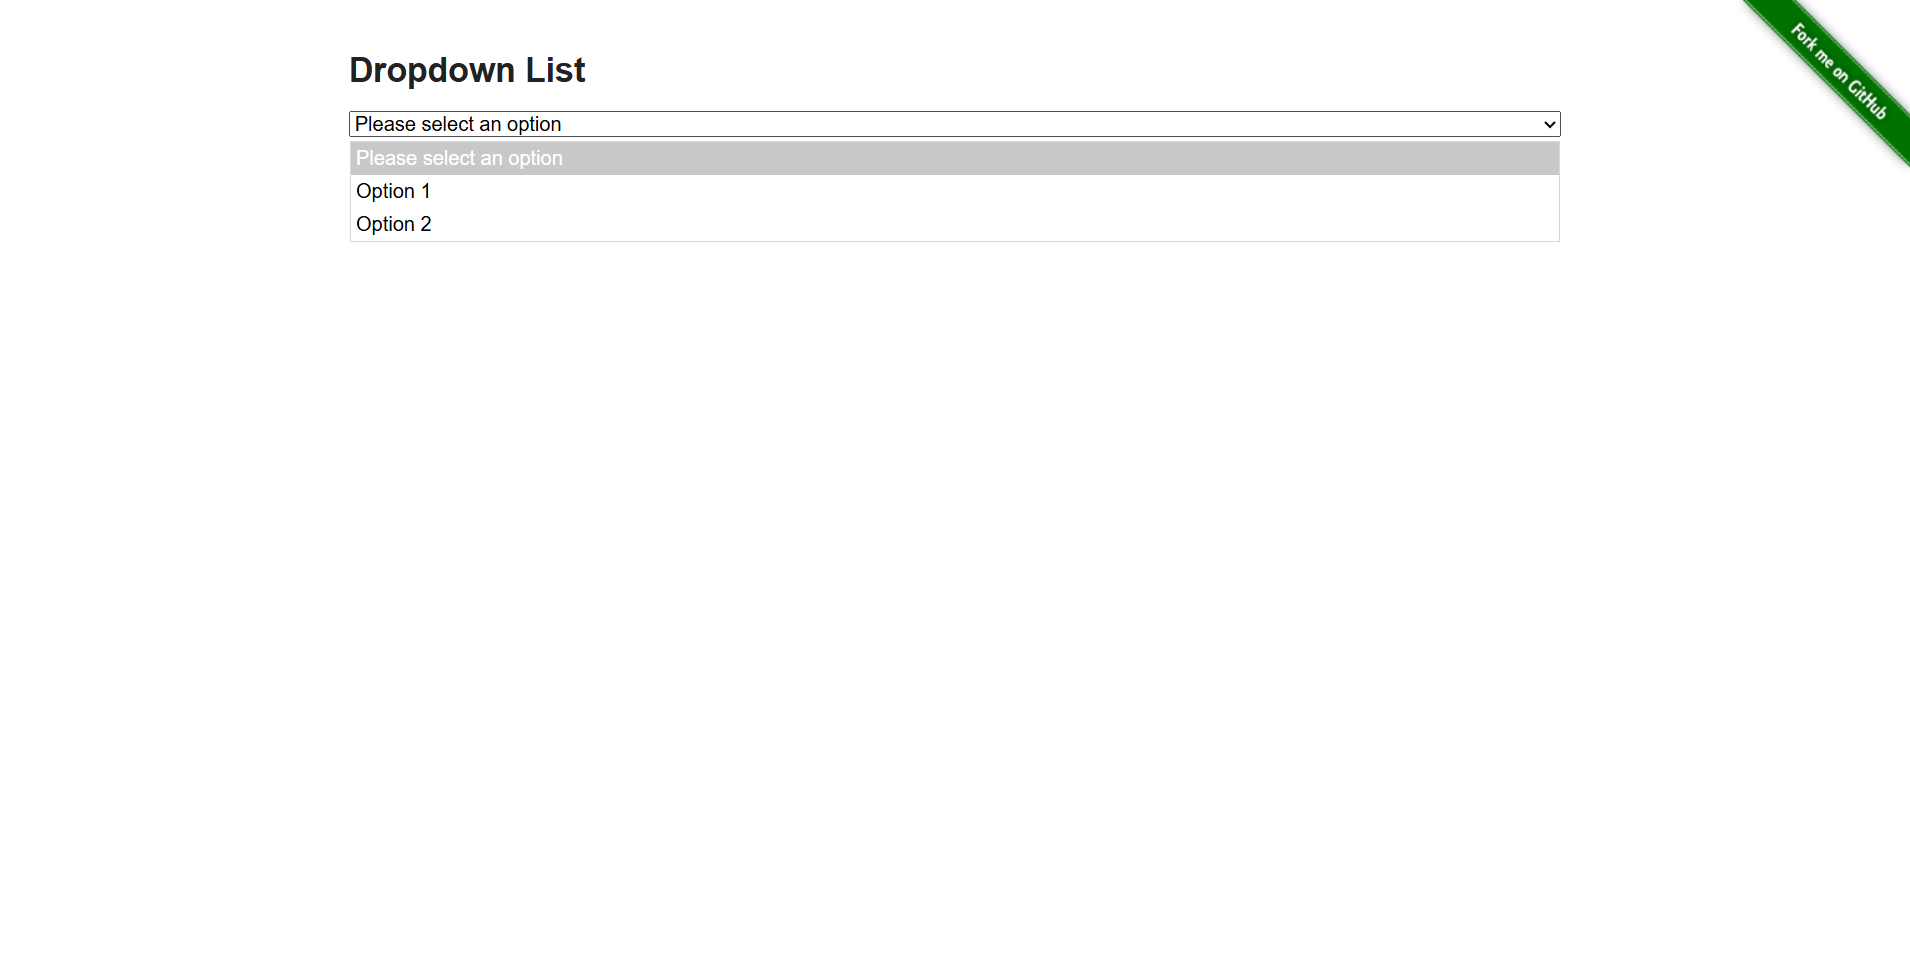
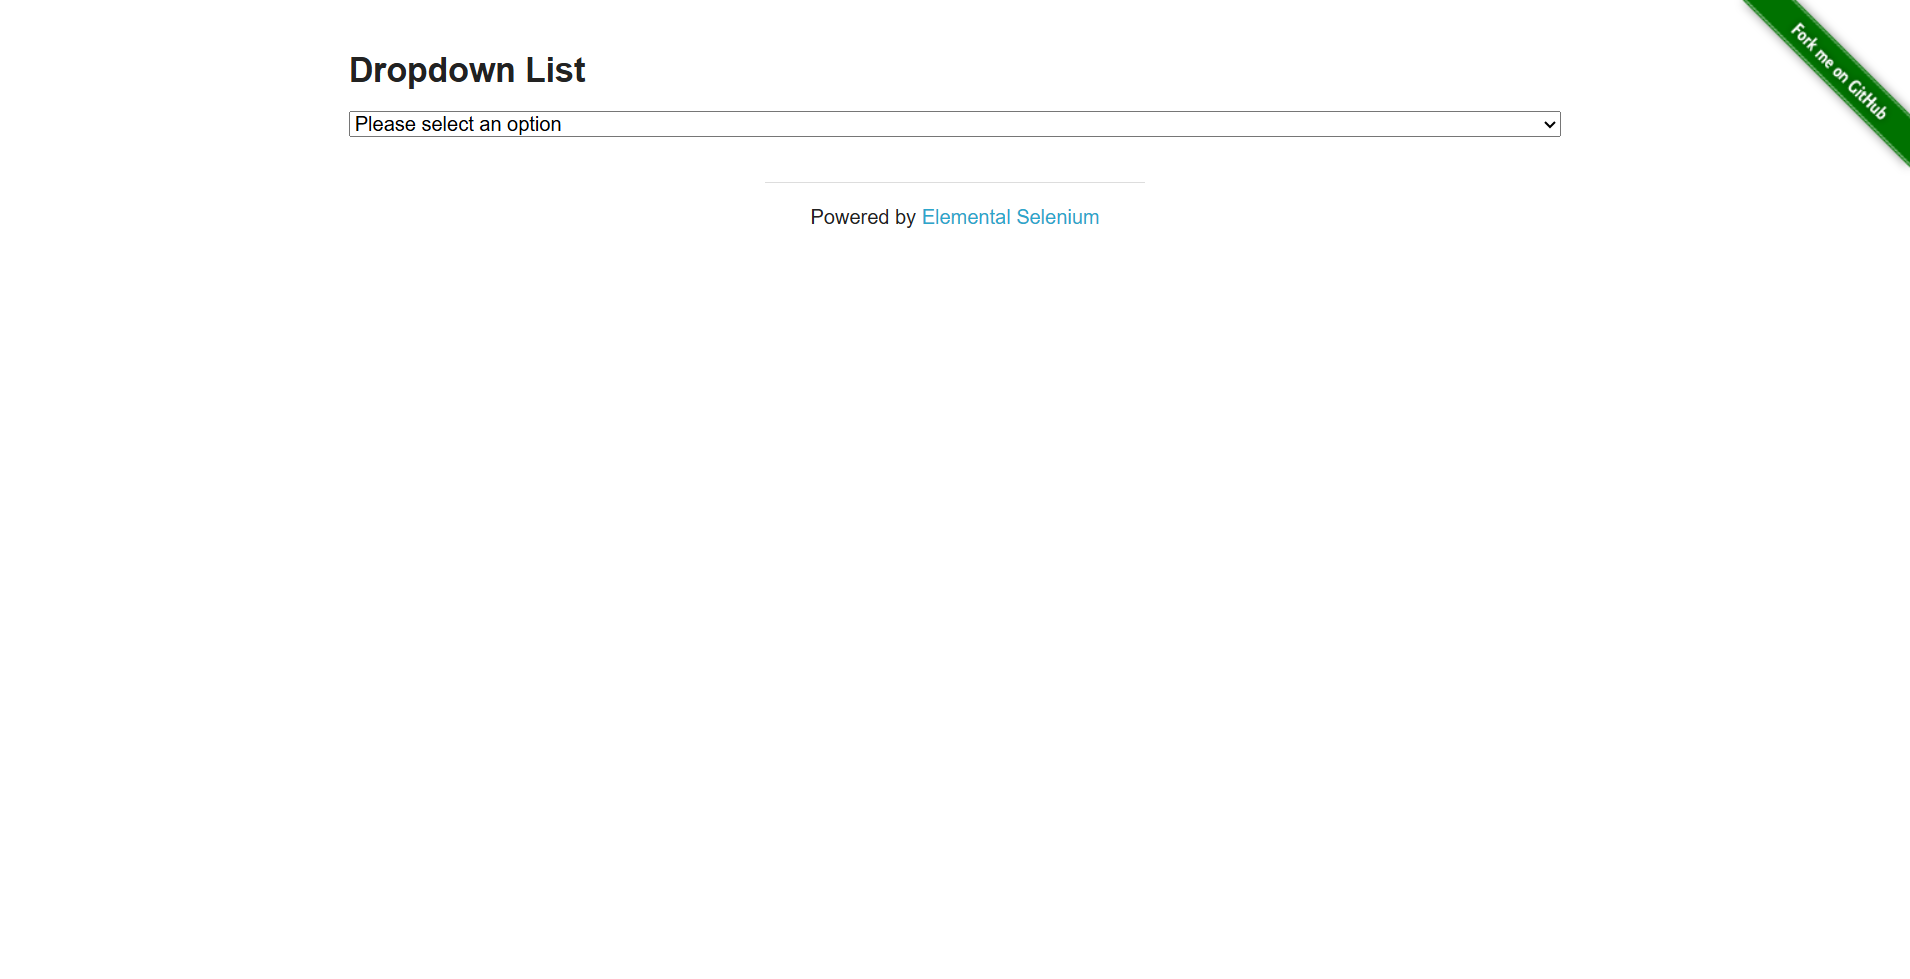
Reports using xml test suite

Changed region(s): [[0.1853, 0.1227, 0.834, 0.2454], [0.4325, 0.2147, 0.5869, 0.2454]]

diff --git a/test-output/Suite/Test.html b/test-output/Suite/Test.html
@@ -1,0 +1,207 @@
+<html>
+<head>
+<title>TestNG:  Test</title>
+<link href="../testng.css" rel="stylesheet" type="text/css" />
+<link href="../my-testng.css" rel="stylesheet" type="text/css" />
+
+<style type="text/css">
+.log { display: none;} 
+.stack-trace { display: none;} 
+</style>
+<script type="text/javascript">
+<!--
+function flip(e) {
+  current = e.style.display;
+  if (current == 'block') {
+    e.style.display = 'none';
+    return 0;
+  }
+  else {
+    e.style.display = 'block';
+    return 1;
+  }
+}
+
+function toggleBox(szDivId, elem, msg1, msg2)
+{
+  var res = -1;  if (document.getElementById) {
+    res = flip(document.getElementById(szDivId));
+  }
+  else if (document.all) {
+    // this is the way old msie versions work
+    res = flip(document.all[szDivId]);
+  }
+  if(elem) {
+    if(res == 0) elem.innerHTML = msg1; else elem.innerHTML = msg2;
+  }
+
+}
+
+function toggleAllBoxes() {
+  if (document.getElementsByTagName) {
+    d = document.getElementsByTagName('div');
+    for (i = 0; i < d.length; i++) {
+      if (d[i].className == 'log') {
+        flip(d[i]);
+      }
+    }
+  }
+}
+
+// -->
+</script>
+
+</head>
+<body>
+<h2 align='center'>Test</h2><table border='1' align="center">
+<tr>
+<td>Tests passed/Failed/Skipped:</td><td>4/2/0</td>
+</tr><tr>
+<td>Started on:</td><td>Sun Apr 19 12:20:49 EDT 2026</td>
+</tr>
+<tr><td>Total time:</td><td>16 seconds (16109 ms)</td>
+</tr><tr>
+<td>Included groups:</td><td></td>
+</tr><tr>
+<td>Excluded groups:</td><td></td>
+</tr>
+</table><p/>
+<small><i>(Hover the method name to see the test class name)</i></small><p/>
+<table width='100%' border='1' class='invocation-failed'>
+<tr><td colspan='4' align='center'><b>FAILED TESTS</b></td></tr>
+<tr><td><b>Test method</b></td>
+<td><b>Attribute(s)</b></td>
+<td width="30%"><b>Exception</b></td>
+<td width="10%"><b>Time (seconds)</b></td>
+<td><b>Instance</b></td>
+</tr>
+<tr>
+<td title='internetheroukapp.DropDownTest.validateDropDownFailTestByVlalue()'><b>validateDropDownFailTestByVlalue</b><br>Test class: internetheroukapp.DropDownTest</td>
+<td><div><pre>org.openqa.selenium.NoSuchElementException: Cannot locate option with index: 3
+For documentation on this error, please visit: https://www.selenium.dev/documentation/webdriver/troubleshooting/errors#nosuchelementexception
+Build info: version: &apos;4.40.0&apos;, revision: &apos;b3333f1&apos;
+System info: os.name: &apos;Windows 11&apos;, os.arch: &apos;amd64&apos;, os.version: &apos;10.0&apos;, java.version: &apos;17.0.3&apos;
+Driver info: driver.version: unknown
+	at org.openqa.selenium.support.ui.Select.setSelectedByIndex(Select.java:321)
+	at org.openqa.selenium.support.ui.Select.selectByIndex(Select.java:176)
+	at util.UserInterfaceActionsUtils.selectDropDownByIndex(UserInterfaceActionsUtils.java:45)
+	at pageclasses.DropDownTitlePage.selectDropDownOptionsByValue(DropDownTitlePage.java:28)
+	at internetheroukapp.DropDownTest.validateDropDownFailTestByVlalue(DropDownTest.java:58)
+	at java.base/java.util.ArrayList.forEach(ArrayList.java:1511)
+... Removed 27 stack frames</pre></div><a href='#' onClick='toggleBox("stack-trace867205829", this, "Click to show all stack frames", "Click to hide stack frames")'>Click to show all stack frames</a>
+<div class='stack-trace' id='stack-trace867205829'><pre>org.openqa.selenium.NoSuchElementException: Cannot locate option with index: 3
+For documentation on this error, please visit: https://www.selenium.dev/documentation/webdriver/troubleshooting/errors#nosuchelementexception
+Build info: version: &apos;4.40.0&apos;, revision: &apos;b3333f1&apos;
+System info: os.name: &apos;Windows 11&apos;, os.arch: &apos;amd64&apos;, os.version: &apos;10.0&apos;, java.version: &apos;17.0.3&apos;
+Driver info: driver.version: unknown
+	at org.openqa.selenium.support.ui.Select.setSelectedByIndex(Select.java:321)
+	at org.openqa.selenium.support.ui.Select.selectByIndex(Select.java:176)
+	at util.UserInterfaceActionsUtils.selectDropDownByIndex(UserInterfaceActionsUtils.java:45)
+	at pageclasses.DropDownTitlePage.selectDropDownOptionsByValue(DropDownTitlePage.java:28)
+	at internetheroukapp.DropDownTest.validateDropDownFailTestByVlalue(DropDownTest.java:58)
+	at java.base/jdk.internal.reflect.NativeMethodAccessorImpl.invoke0(Native Method)
+	at java.base/jdk.internal.reflect.NativeMethodAccessorImpl.invoke(NativeMethodAccessorImpl.java:77)
+	at java.base/jdk.internal.reflect.DelegatingMethodAccessorImpl.invoke(DelegatingMethodAccessorImpl.java:43)
+	at java.base/java.lang.reflect.Method.invoke(Method.java:568)
+	at org.testng.internal.invokers.MethodInvocationHelper.invokeMethod(MethodInvocationHelper.java:141)
+	at org.testng.internal.invokers.TestInvoker.invokeMethod(TestInvoker.java:697)
+	at org.testng.internal.invokers.TestInvoker.invokeTestMethod(TestInvoker.java:230)
+	at org.testng.internal.invokers.MethodRunner.runInSequence(MethodRunner.java:63)
+	at org.testng.internal.invokers.TestInvoker$MethodInvocationAgent.invoke(TestInvoker.java:1005)
+	at org.testng.internal.invokers.TestInvoker.invokeTestMethods(TestInvoker.java:203)
+	at org.testng.internal.invokers.TestMethodWorker.invokeTestMethods(TestMethodWorker.java:154)
+	at org.testng.internal.invokers.TestMethodWorker.run(TestMethodWorker.java:134)
+	at java.base/java.util.ArrayList.forEach(ArrayList.java:1511)
+	at org.testng.TestRunner.privateRun(TestRunner.java:744)
+	at org.testng.TestRunner.run(TestRunner.java:616)
+	at org.testng.SuiteRunner.runTest(SuiteRunner.java:421)
+	at org.testng.SuiteRunner.runSequentially(SuiteRunner.java:413)
+	at org.testng.SuiteRunner.privateRun(SuiteRunner.java:373)
+	at org.testng.SuiteRunner.run(SuiteRunner.java:312)
+	at org.testng.SuiteRunnerWorker.runSuite(SuiteRunnerWorker.java:52)
+	at org.testng.SuiteRunnerWorker.run(SuiteRunnerWorker.java:95)
+	at org.testng.TestNG.runSuitesSequentially(TestNG.java:1274)
+	at org.testng.TestNG.runSuitesLocally(TestNG.java:1208)
+	at org.testng.TestNG.runSuites(TestNG.java:1112)
+	at org.testng.TestNG.run(TestNG.java:1079)
+	at org.testng.remote.AbstractRemoteTestNG.run(AbstractRemoteTestNG.java:115)
+	at org.testng.remote.RemoteTestNG.initAndRun(RemoteTestNG.java:293)
+	at org.testng.remote.RemoteTestNG.main(RemoteTestNG.java:91)
+</pre></div></td>
+<td>0</td>
+<td>internetheroukapp.DropDownTest@795509d9</td></tr>
+<tr>
+<td title='internetheroukapp.FormAuthTest.loginFailTest()'><b>loginFailTest</b><br>Test class: internetheroukapp.FormAuthTest</td>
+<td><div><pre>java.lang.AssertionError: expected [true] but found [false]
+	at internetheroukapp.FormAuthTest.loginFailTest(FormAuthTest.java:77)
+	at java.base/java.util.ArrayList.forEach(ArrayList.java:1511)
+... Removed 31 stack frames</pre></div><a href='#' onClick='toggleBox("stack-trace703440120", this, "Click to show all stack frames", "Click to hide stack frames")'>Click to show all stack frames</a>
+<div class='stack-trace' id='stack-trace703440120'><pre>java.lang.AssertionError: expected [true] but found [false]
+	at org.testng.Assert.fail(Assert.java:111)
+	at org.testng.Assert.failNotEquals(Assert.java:1590)
+	at org.testng.Assert.assertTrue(Assert.java:57)
+	at org.testng.Assert.assertTrue(Assert.java:67)
+	at internetheroukapp.FormAuthTest.loginFailTest(FormAuthTest.java:77)
+	at java.base/jdk.internal.reflect.NativeMethodAccessorImpl.invoke0(Native Method)
+	at java.base/jdk.internal.reflect.NativeMethodAccessorImpl.invoke(NativeMethodAccessorImpl.java:77)
+	at java.base/jdk.internal.reflect.DelegatingMethodAccessorImpl.invoke(DelegatingMethodAccessorImpl.java:43)
+	at java.base/java.lang.reflect.Method.invoke(Method.java:568)
+	at org.testng.internal.invokers.MethodInvocationHelper.invokeMethod(MethodInvocationHelper.java:141)
+	at org.testng.internal.invokers.TestInvoker.invokeMethod(TestInvoker.java:697)
+	at org.testng.internal.invokers.TestInvoker.invokeTestMethod(TestInvoker.java:230)
+	at org.testng.internal.invokers.MethodRunner.runInSequence(MethodRunner.java:63)
+	at org.testng.internal.invokers.TestInvoker$MethodInvocationAgent.invoke(TestInvoker.java:1005)
+	at org.testng.internal.invokers.TestInvoker.invokeTestMethods(TestInvoker.java:203)
+	at org.testng.internal.invokers.TestMethodWorker.invokeTestMethods(TestMethodWorker.java:154)
+	at org.testng.internal.invokers.TestMethodWorker.run(TestMethodWorker.java:134)
+	at java.base/java.util.ArrayList.forEach(ArrayList.java:1511)
+	at org.testng.TestRunner.privateRun(TestRunner.java:744)
+	at org.testng.TestRunner.run(TestRunner.java:616)
+	at org.testng.SuiteRunner.runTest(SuiteRunner.java:421)
+	at org.testng.SuiteRunner.runSequentially(SuiteRunner.java:413)
+	at org.testng.SuiteRunner.privateRun(SuiteRunner.java:373)
+	at org.testng.SuiteRunner.run(SuiteRunner.java:312)
+	at org.testng.SuiteRunnerWorker.runSuite(SuiteRunnerWorker.java:52)
+	at org.testng.SuiteRunnerWorker.run(SuiteRunnerWorker.java:95)
+	at org.testng.TestNG.runSuitesSequentially(TestNG.java:1274)
+	at org.testng.TestNG.runSuitesLocally(TestNG.java:1208)
+	at org.testng.TestNG.runSuites(TestNG.java:1112)
+	at org.testng.TestNG.run(TestNG.java:1079)
+	at org.testng.remote.AbstractRemoteTestNG.run(AbstractRemoteTestNG.java:115)
+	at org.testng.remote.RemoteTestNG.initAndRun(RemoteTestNG.java:293)
+	at org.testng.remote.RemoteTestNG.main(RemoteTestNG.java:91)
+</pre></div></td>
+<td>0</td>
+<td>internetheroukapp.FormAuthTest@4b013c76</td></tr>
+</table><p>
+<table width='100%' border='1' class='invocation-passed'>
+<tr><td colspan='4' align='center'><b>PASSED TESTS</b></td></tr>
+<tr><td><b>Test method</b></td>
+<td><b>Attribute(s)</b></td>
+<td width="30%"><b>Exception</b></td>
+<td width="10%"><b>Time (seconds)</b></td>
+<td><b>Instance</b></td>
+</tr>
+<tr>
+<td title='internetheroukapp.FormAuthTest.loginSuccessTest()'><b>loginSuccessTest</b><br>Test class: internetheroukapp.FormAuthTest</td>
+<td></td>
+<td>0</td>
+<td>internetheroukapp.FormAuthTest@4b013c76</td></tr>
+<tr>
+<td title='internetheroukapp.JavaScriptOptionsTest.verifyJavaScriptSuccessTest()'><b>verifyJavaScriptSuccessTest</b><br>Test class: internetheroukapp.JavaScriptOptionsTest</td>
+<td></td>
+<td>0</td>
+<td>internetheroukapp.JavaScriptOptionsTest@548d708a</td></tr>
+<tr>
+<td title='internetheroukapp.DropDownTest.validateDropDownActionsTestByText()'><b>validateDropDownActionsTestByText</b><br>Test class: internetheroukapp.DropDownTest</td>
+<td></td>
+<td>0</td>
+<td>internetheroukapp.DropDownTest@795509d9</td></tr>
+<tr>
+<td title='internetheroukapp.DropDownTest.validateDropDownActionsTestByValue()'><b>validateDropDownActionsTestByValue</b><br>Test class: internetheroukapp.DropDownTest</td>
+<td></td>
+<td>0</td>
+<td>internetheroukapp.DropDownTest@795509d9</td></tr>
+</table><p>
+</body>
+</html>
